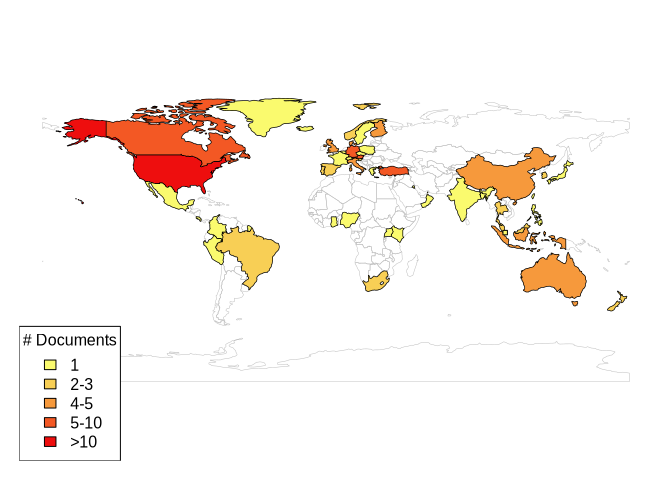
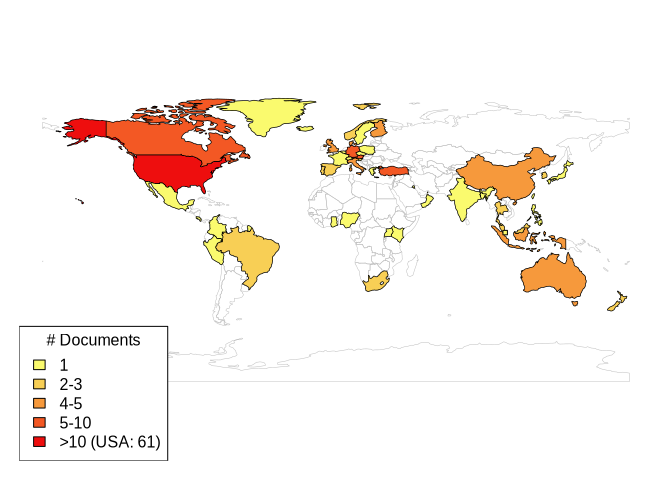
map legend

Changed region(s): [[0.0312, 0.75, 0.25, 0.9688], [0.0312, 0.6562, 0.25, 0.75], [0.2188, 0.7812, 0.25, 0.8125]]

diff --git a/extraction/results_graphs_number.md b/extraction/results_graphs_number.md
@@ -210,7 +210,7 @@ extract$datepubl<-as.integer(gsub("\\.0$","",gsub("^([A-Z][a-z]+ )([12][0-9]{3})
     ##                  2015                  2012                  2012 
     ##            Roscoe2013      Roychoudhury2017            Ruboon2012 
     ##                  2012                  2017                  2012 
-    ##       Salas_Rueda2021         Salsabila2019          Saribaş2016  
+    ##       Salas_Rueda2021         Salsabila2019           Saribaş2016 
     ##                  2021                  2019                  2016 
     ##           Schrot2021a        Schubatzky2022          Schuster2008 
     ##                  2020                  2022                  2008 
@@ -341,7 +341,7 @@ par(mar=c(1,1,1,1))
 plot(st_geometry(worldMap_tot),border="grey",lwd=0.5)
 plot(st_geometry(worldMap_tot[orderCt,]),border="black",lwd=0.7,col=colorsScale[scaleNb],add=T)
 plot(st_geometry(tinyCountries[orderTinyCountries,]),pch=22,bg = colorsScale[scaleNb[indexTinyCountries]],add=T,cex=.7)
-legend("bottomleft",title="# Documents",fill=colorsScale,legend=c("1","2-3","4-5","5-10",">10"))
+legend("bottomleft",title="# Documents",fill=colorsScale,legend=c("1","2-3","4-5","5-10",paste0(">10 (USA: ",max(nbBycountry),")")))
 ```
 
 ![](results_graphs_number_files/figure-gfm/unnamed-chunk-6-1.png)<!-- -->
@@ -1859,7 +1859,7 @@ Lombardi2013, Nicholas_Figueroa2017, Petersen2020, Puttick2018,
 Salas_Rueda2021, Schubatzky2022, Sellmann2013, Shea2016, Steffensen2022,
 Taber2009, Varma2012, Williams2017, Korfgen2017, Cebesoy2019,
 Dormody2020, Kolenaty2022, Kumar2023, Mason1998, Feldpausch_Parker2013,
-Roscoe2013, Raes2016, McGowan2022, Klosterman2010, Saribaş2016 ,
+Roscoe2013, Raes2016, McGowan2022, Klosterman2010, Saribaş2016,
 Reinfried2012, Sellmann2013a, Sternang2012, Sutela2023, Stevenson2018a,
 Xie2014, Xie2014, Trott2019, Trott2022, Markowitz2018, Zhong2021,
 Harker_Schuch2013, Harker_Schuch2020, Lambert2013, Littrell2022,
@@ -23746,8 +23746,8 @@ sqldf(
 )
 ```
 
-    ##     GROUP_CONCAT(id, ', ')
-    ## 1 Saribaş2016 , Sutela2023
+    ##    GROUP_CONCAT(id, ', ')
+    ## 1 Saribaş2016, Sutela2023
 
 ``` r
 sqldf(
@@ -23758,9 +23758,9 @@ sqldf(
 )
 ```
 
-    ##             id                  pop person                           TheoFra
-    ## 1 Saribaş2016  Pre-service teachers   JGOP Professional development workshop
-    ## 2   Sutela2023             Teachers   JGOP                       Alternative
+    ##            id                  pop person                           TheoFra
+    ## 1 Saribaş2016 Pre-service teachers   JGOP Professional development workshop
+    ## 2  Sutela2023             Teachers   JGOP                       Alternative
     ##             curri
     ## 1 Extracurricular
     ## 2      Curricular
